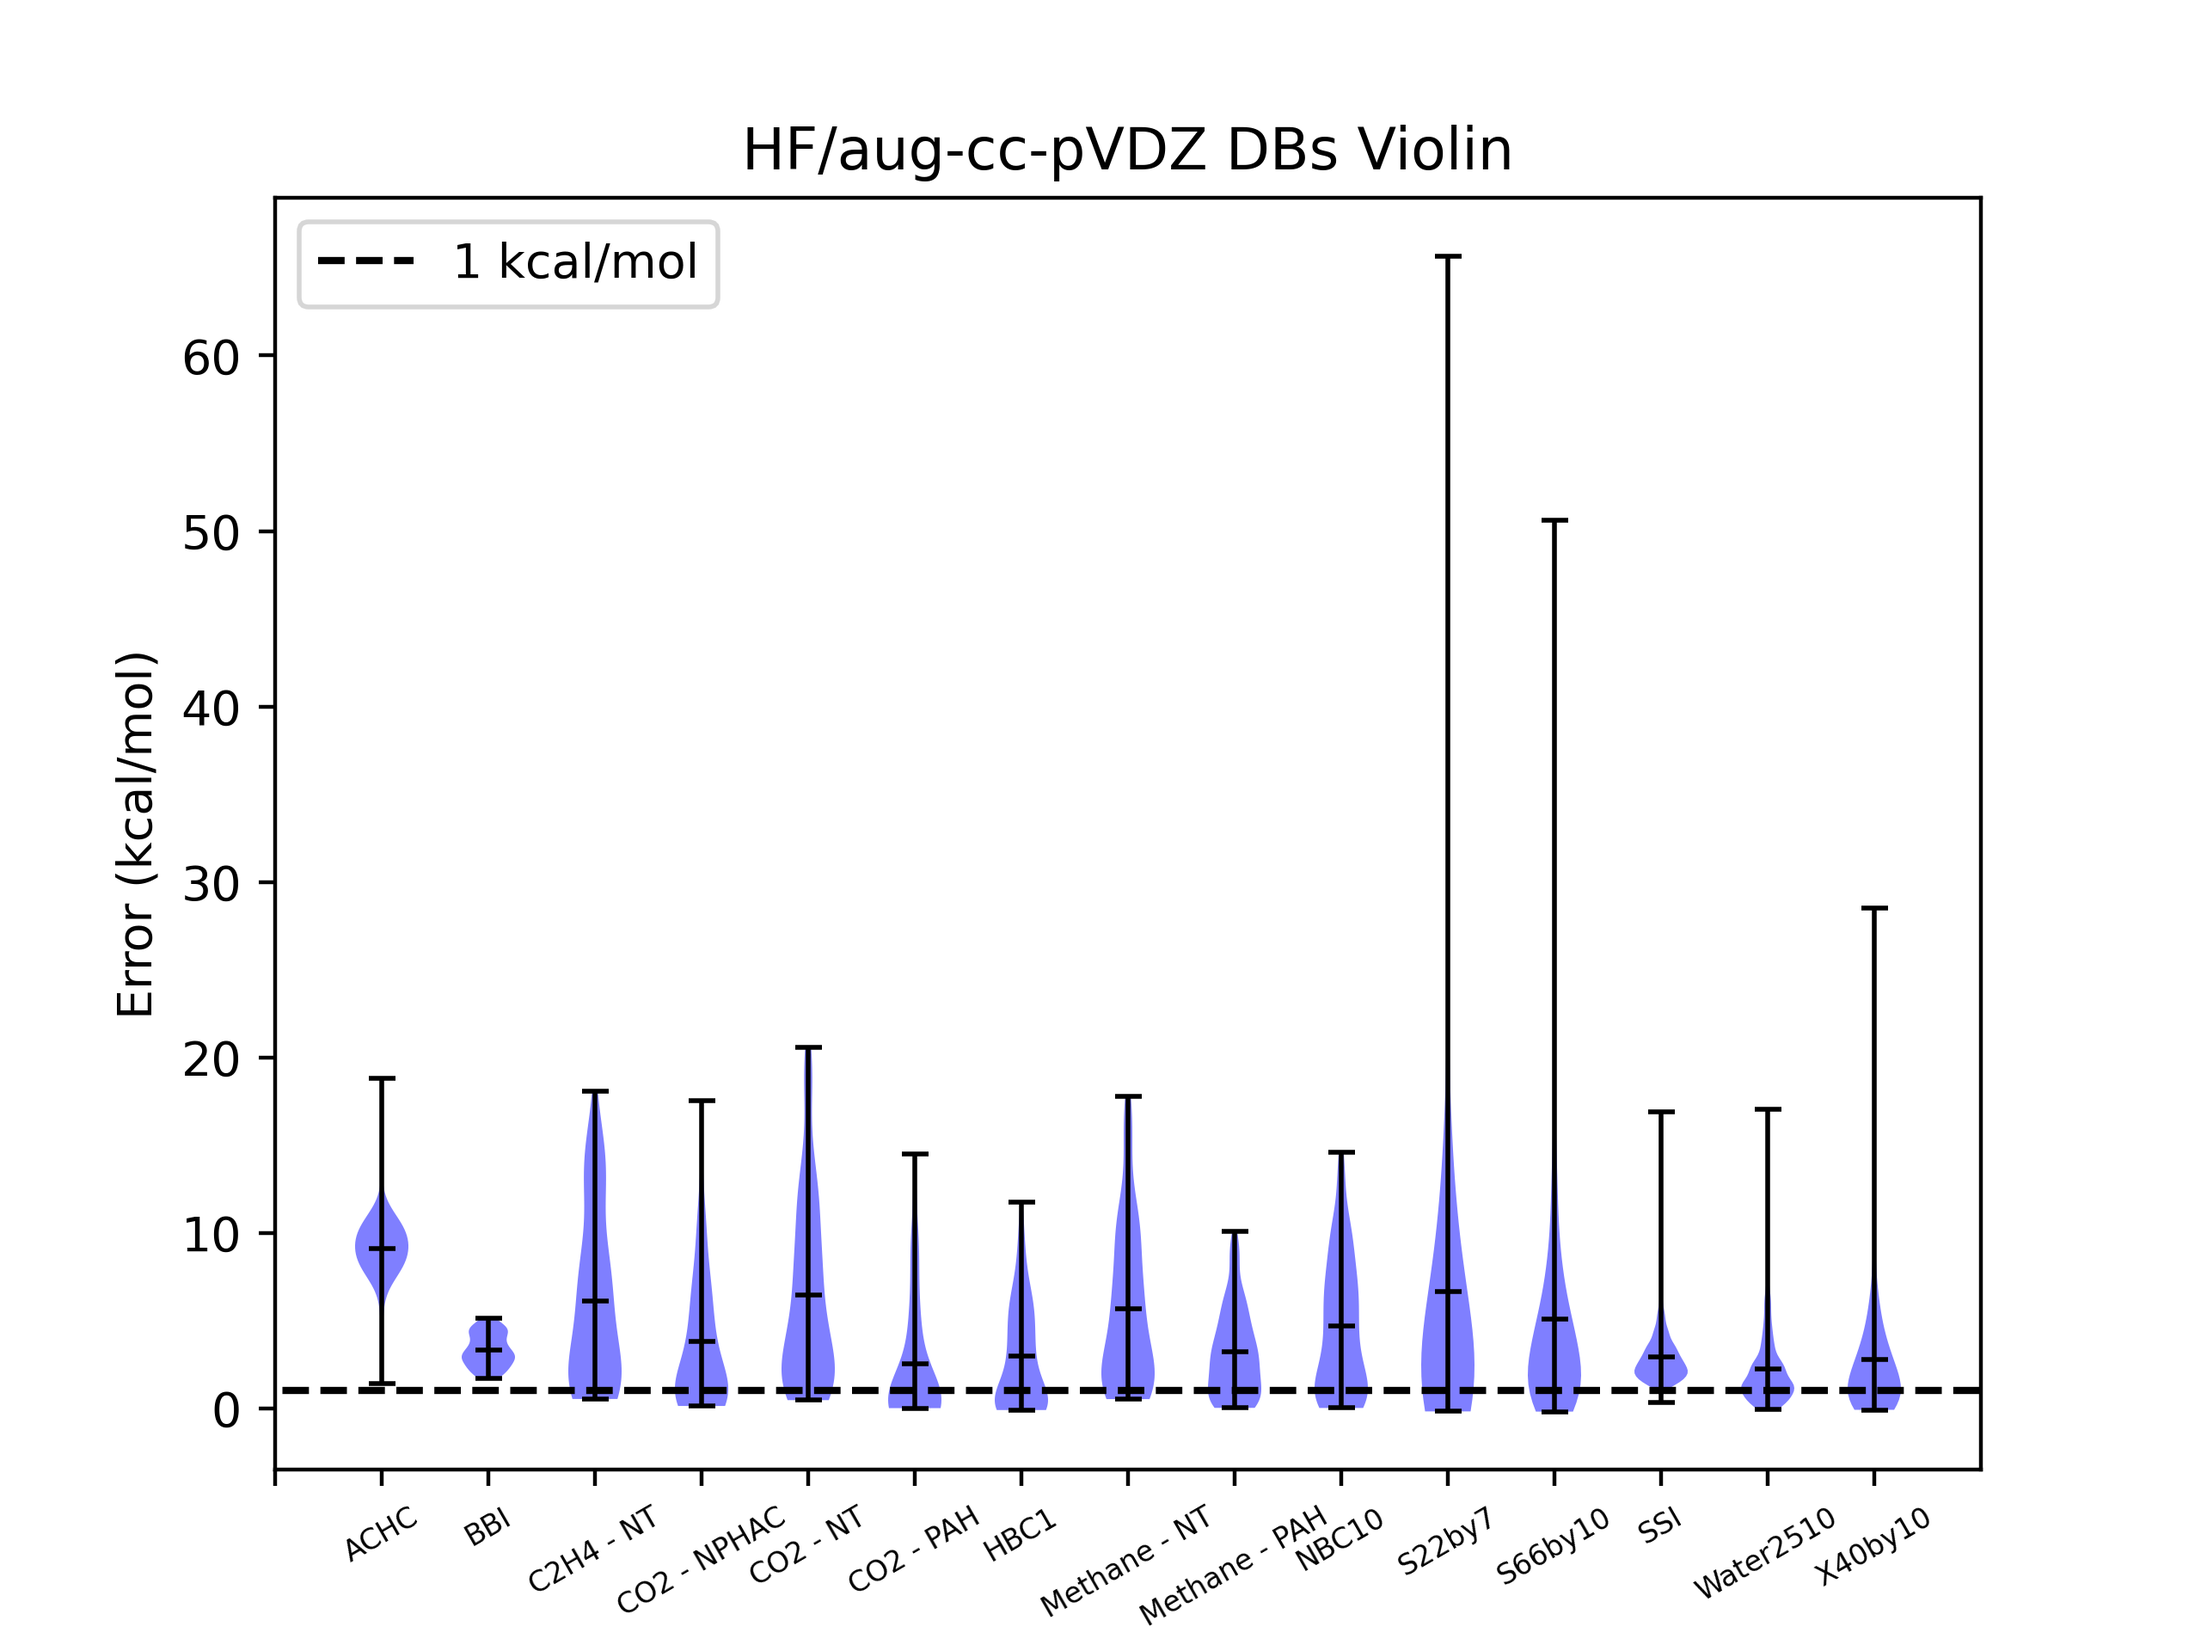
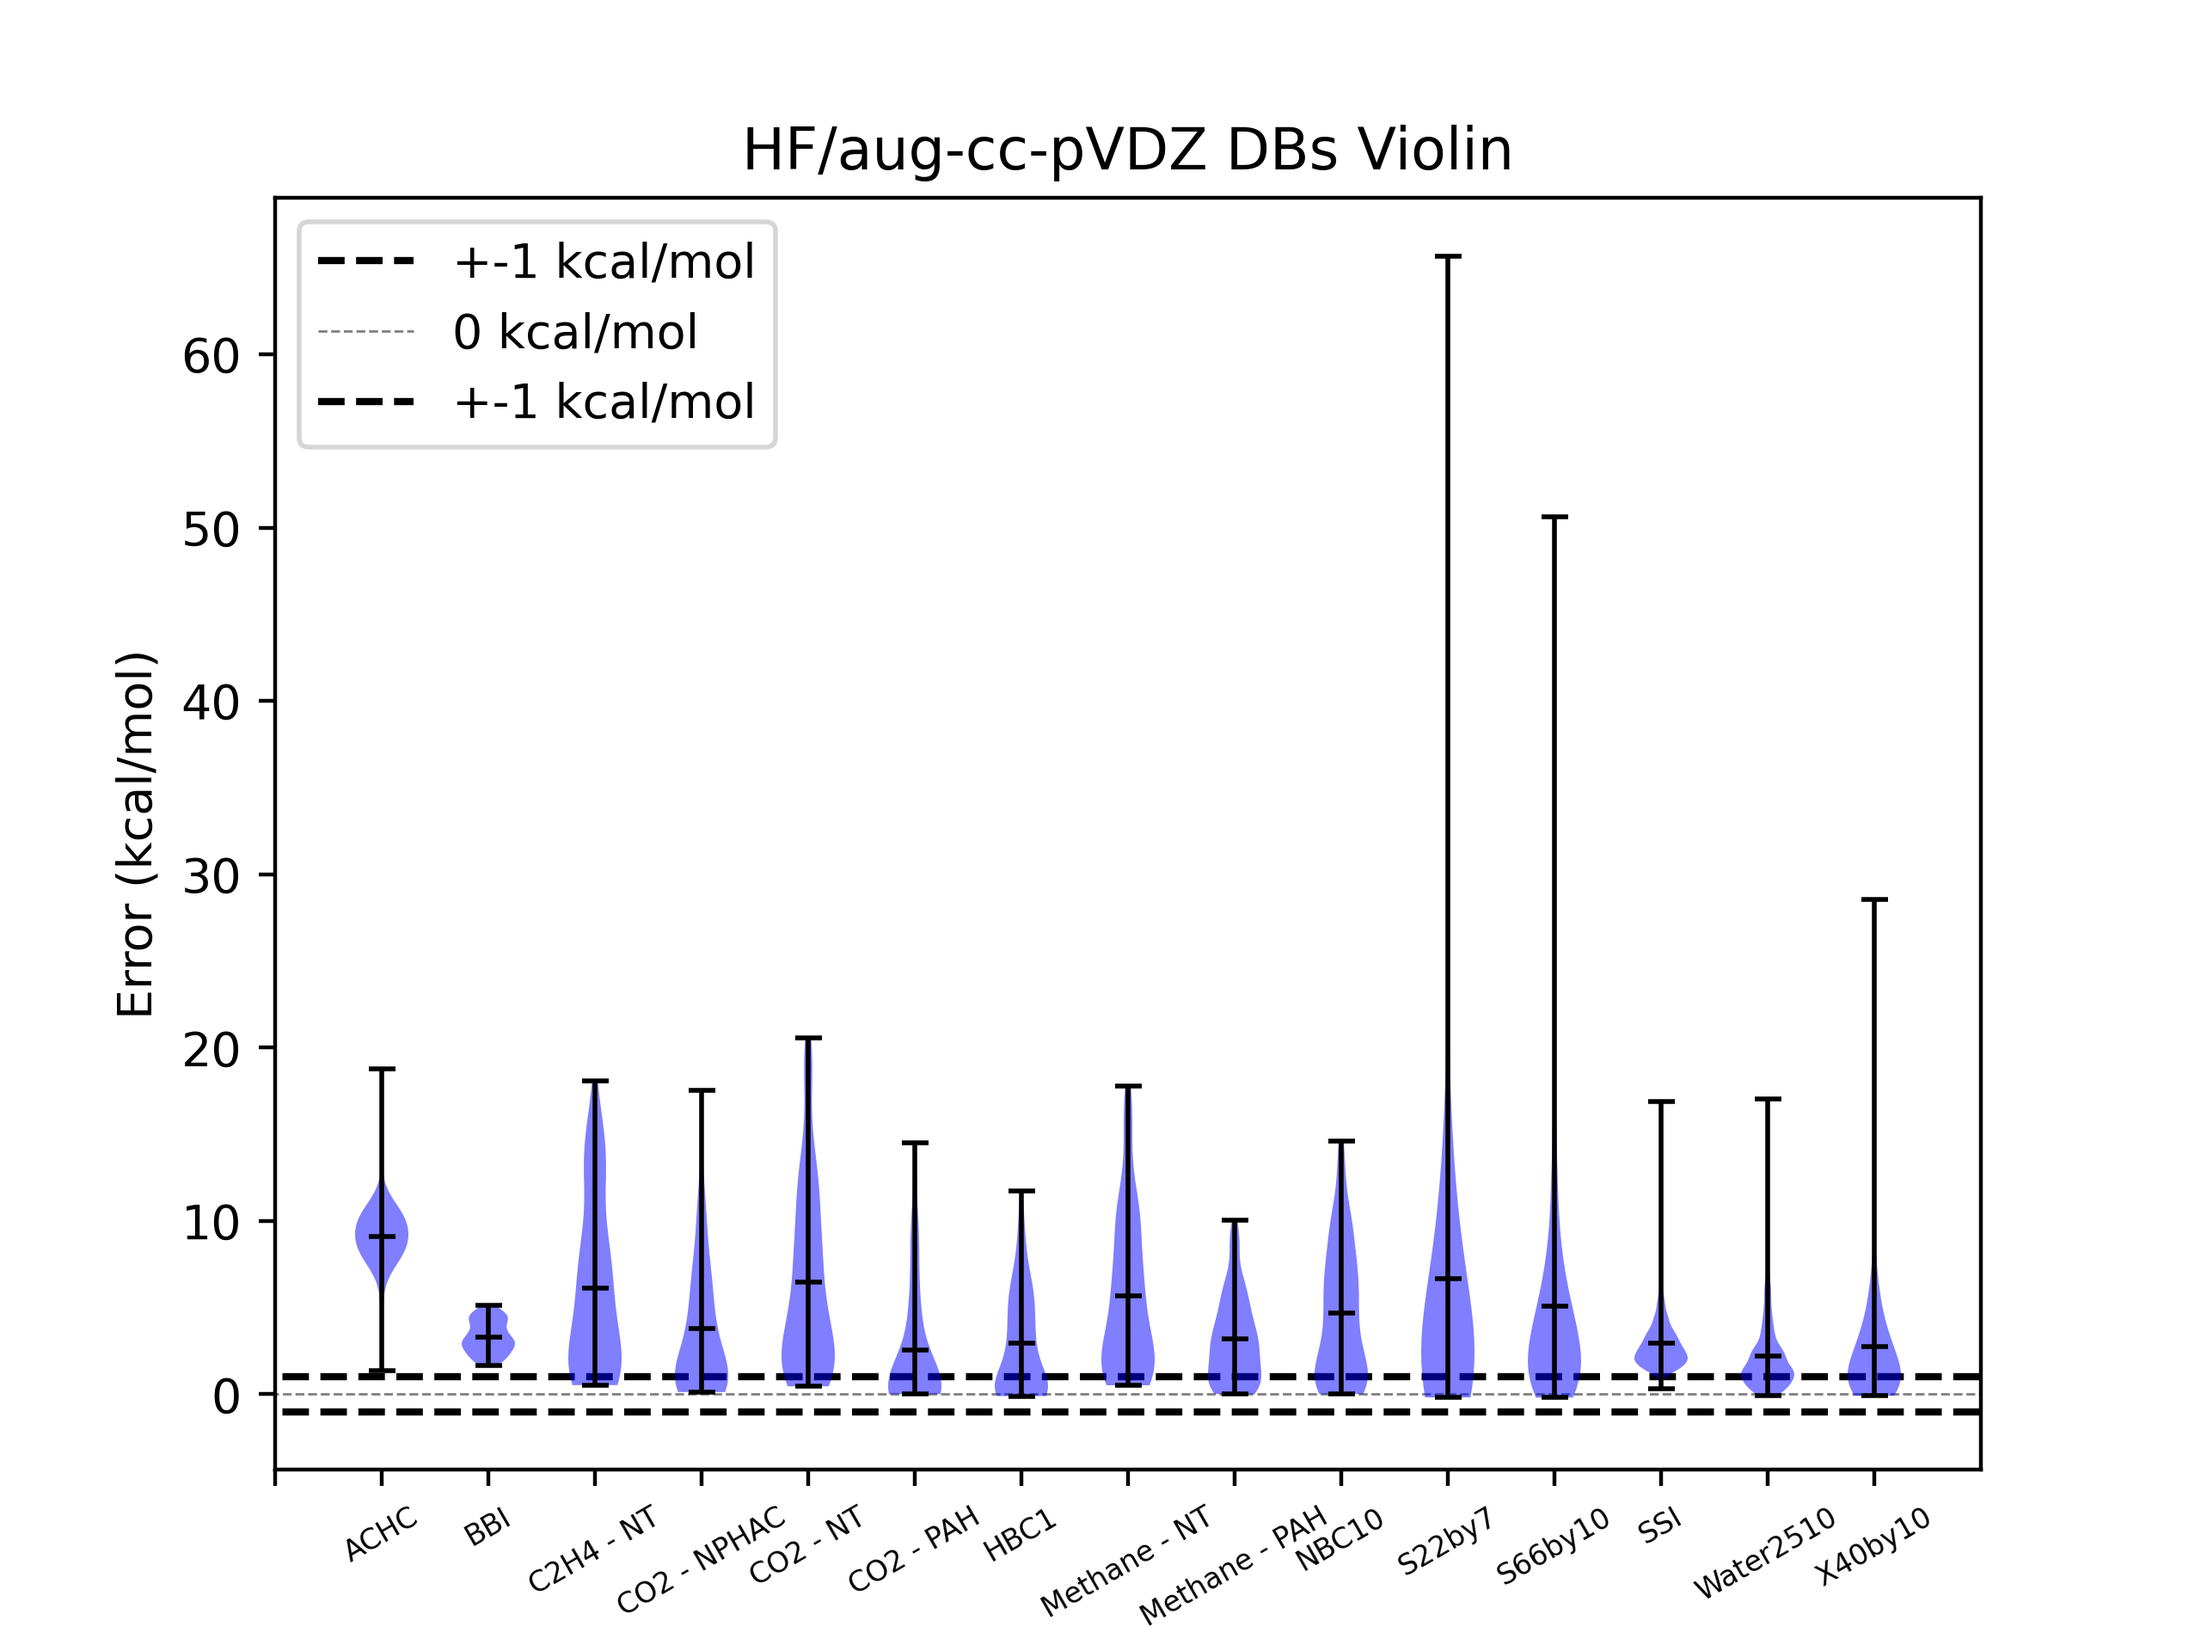
plots

diff --git a/src/plotting.py b/src/plotting.py
@@ -63,7 +63,24 @@ def plot_dbs(df, df_col, title_name, pfn) -> None:
         xs_error,
         [1 for i in range(len(xs_error))],
         "k--",
-        label="1 kcal/mol",
+        label="+-1 kcal/mol",
+        zorder=0,
+    )
+    ax.plot(
+        xs_error,
+        [0 for i in range(len(xs_error))],
+        "k--",
+        alpha=0.5,
+        linewidth=0.5,
+        label="0 kcal/mol",
+        zorder=0,
+    )
+    ax.plot(
+        xs_error,
+        [-1 for i in range(len(xs_error))],
+        "k--",
+        label="+-1 kcal/mol",
+        zorder=0,
     )
     ax.set_xticks(xs)
     plt.setp(ax.set_xticklabels(vLabels), rotation=30, fontsize="6")
@@ -116,7 +133,24 @@ def plot_dbs_d3_d4(df, c1, c2, l1, l2, title_name, pfn) -> None:
         xs_error,
         [1 for i in range(len(xs_error))],
         "k--",
-        label="1 kcal/mol",
+        label="+-1 kcal/mol",
+        zorder=0,
+    )
+    ax.plot(
+        xs_error,
+        [0 for i in range(len(xs_error))],
+        "k--",
+        linewidth=0.5,
+        alpha=0.5,
+        label="0 kcal/mol",
+        zorder=0,
+    )
+    ax.plot(
+        xs_error,
+        [-1 for i in range(len(xs_error))],
+        "k--",
+        label="+-1 kcal/mol",
+        zorder=0,
     )
     ax.set_xticks(xs)
     plt.setp(ax.set_xticklabels(vLabels), rotation=30, fontsize="6")

diff --git a/main.py b/main.py
@@ -149,7 +149,7 @@ def plots(df) -> None:
     df["adz_diff_d3"] = df["SAPT0-D3/aug-cc-pVDZ"] - df["Benchmark"]
     print(df["adz_diff_d3"].describe())
     print(df["adz_diff_d4"].describe())
-    src.plotting.plot_dbs(df, "adz_diff", "SAPT0-D4/aug-cc-pVDZ", "adz_diff")
+    src.plotting.plot_dbs(df, "adz_diff_d4", "SAPT0-D4/aug-cc-pVDZ", "adz_diff_d4")
     src.plotting.plot_dbs(df, "HF_adz_diff", "HF/aug-cc-pVDZ", "HF_adz_diff")
     src.plotting.plot_dbs_d3_d4(
         df,
@@ -176,6 +176,8 @@ def main():
     params_d4 = params_dict["sadz"][1:]
     params_d3 = params_dict["sdadz"][1:]
     undamped = params_dict["undamped"][1:]
+    plots(df)
+    return
     # print(params_d3)
     # print(params_d4)
     # df = compute_D3_D4_values_for_params(df, params_d3, params_d4, "adz")
